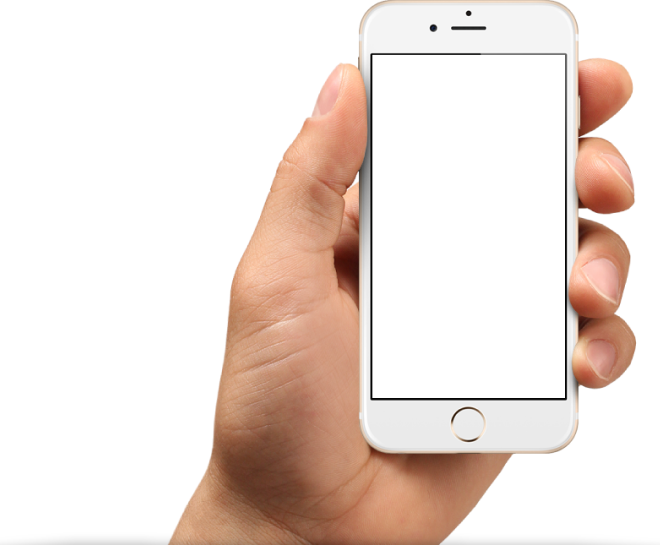
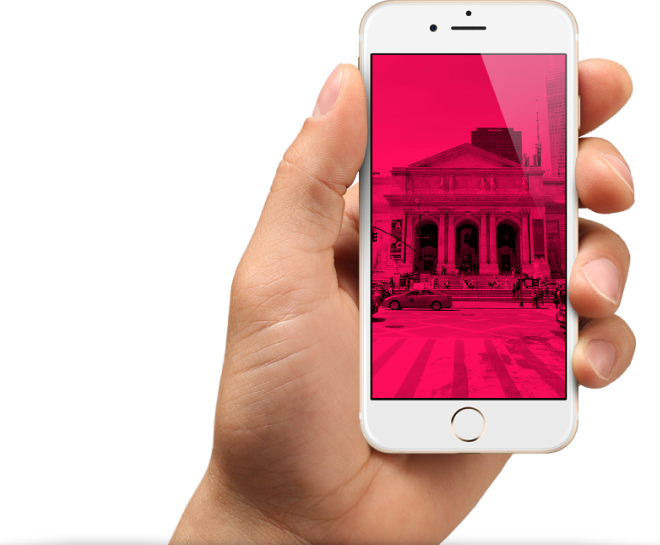
добавил картинки на телефон и доделал таймер в блоке

Changed region(s): [[0.5455, 0.0936, 0.8788, 0.7486]]

diff --git a/source/index.html b/source/index.html
@@ -80,17 +80,17 @@
             <ul class="advantages__list">
               <li class="advantages__item">
                 <h3 class="advantages__title">Поднимает настроение</h3>
-                <img class="advantages__image" src="./img/advantages-iphone-desktop.png" width="186" height="382" alt="Фотография до редактирования">
+                <img class="advantages__image" src="./img/advantages-phone-desktop1.png" width="186" height="382" alt="Фотография до редактирования">
                 <p class="advantages__description">Приложение позволит вам победить осеннюю хандру и депрессию буквально в несколько кликов!</p>
               </li>
               <li class="advantages__item">
                 <h3 class="advantages__title">Меняет мир вокруг</h3>
-                <img class="advantages__image" src="./img/advantages-iphone-desktop.png" width="186" height="382" alt="Редактированная фотография">
+                <img class="advantages__image" src="./img/advantages-phone-desktop2.png" width="186" height="382" alt="Редактированная фотография">
                 <p class="advantages__description">Сделайте снимок и украсьте его смайликом или текстовой подписью, чтобы усилить эффект</p>
               </li>
               <li class="advantages__item">
                 <h3 class="advantages__title">Заводит новых друзей</h3>
-                <img class="advantages__image" src="./img/advantages-iphone-desktop.png" width="186" height="382" alt="Редактированная фотография">
+                <img class="advantages__image" src="./img/advantages-phone-desktop3.png" width="186" height="382" alt="Редактированная фотография">
                 <p class="advantages__description">Ставьте лайки, комментируйте, делитесь фотографиями с друзьями и заводите новых</p>
               </li>
             </ul>

diff --git a/source/less/blocks/effect.less b/source/less/blocks/effect.less
@@ -3,6 +3,7 @@
 
   @media (min-width: @tablet-width) {
     display: block;
+    padding-bottom: 138px;
   }
 
   @media (min-width: @desktop-width) {
@@ -11,11 +12,12 @@
 }
 
 .effect__description {
-  min-height: 330px;
+  min-height: 370px;
   display: flex;
   background: url("../../img/timer-tablet.svg") no-repeat 0 100%;
 
   @media (min-width: @desktop-width) {
+    background: url("../../img/timer-desktop.svg") no-repeat 0 100%;
     min-height: 429px;
     background-size: 298px auto;
     background-position: 0 17px;

diff --git a/source/less/blocks/advantages.less b/source/less/blocks/advantages.less
@@ -62,12 +62,12 @@
 
 .advantages__phone-wrapper {
   @media (max-width: @mobile-width-only) {
-    background: url("../../img/advantages-iphone-mobile.png") no-repeat 50% 111%;
+    background: url("../../img/advantages-phone-mobile.png") no-repeat 50% 111%;
   }
 
   @media (min-width: @tablet-width) and (max-width: @tablet-width-only) {
     display: flex;
-    background: url("../../img/advantages-iphone-tablet.png") no-repeat 0 79px;
+    background: url("../../img/advantages-phone-tablet.png") no-repeat 0 79px;
   }
 }
 

diff --git a/source/less/blocks/price.less b/source/less/blocks/price.less
@@ -101,8 +101,8 @@
     left: 13px;
 
     @media (min-width: @tablet-width) and (max-width: @tablet-width-only) {
-      top: -49px;
-      left: 9px;
+      top: -47px;
+      left: 8px;
     }
   }
 }

diff --git a/source/less/blocks/feedback.less b/source/less/blocks/feedback.less
@@ -3,7 +3,7 @@
   margin: 0;
 
   @media (min-width: @tablet-width) {
-    padding-top: 109px;
+    padding: 0;
     margin: 0;
   }
 
